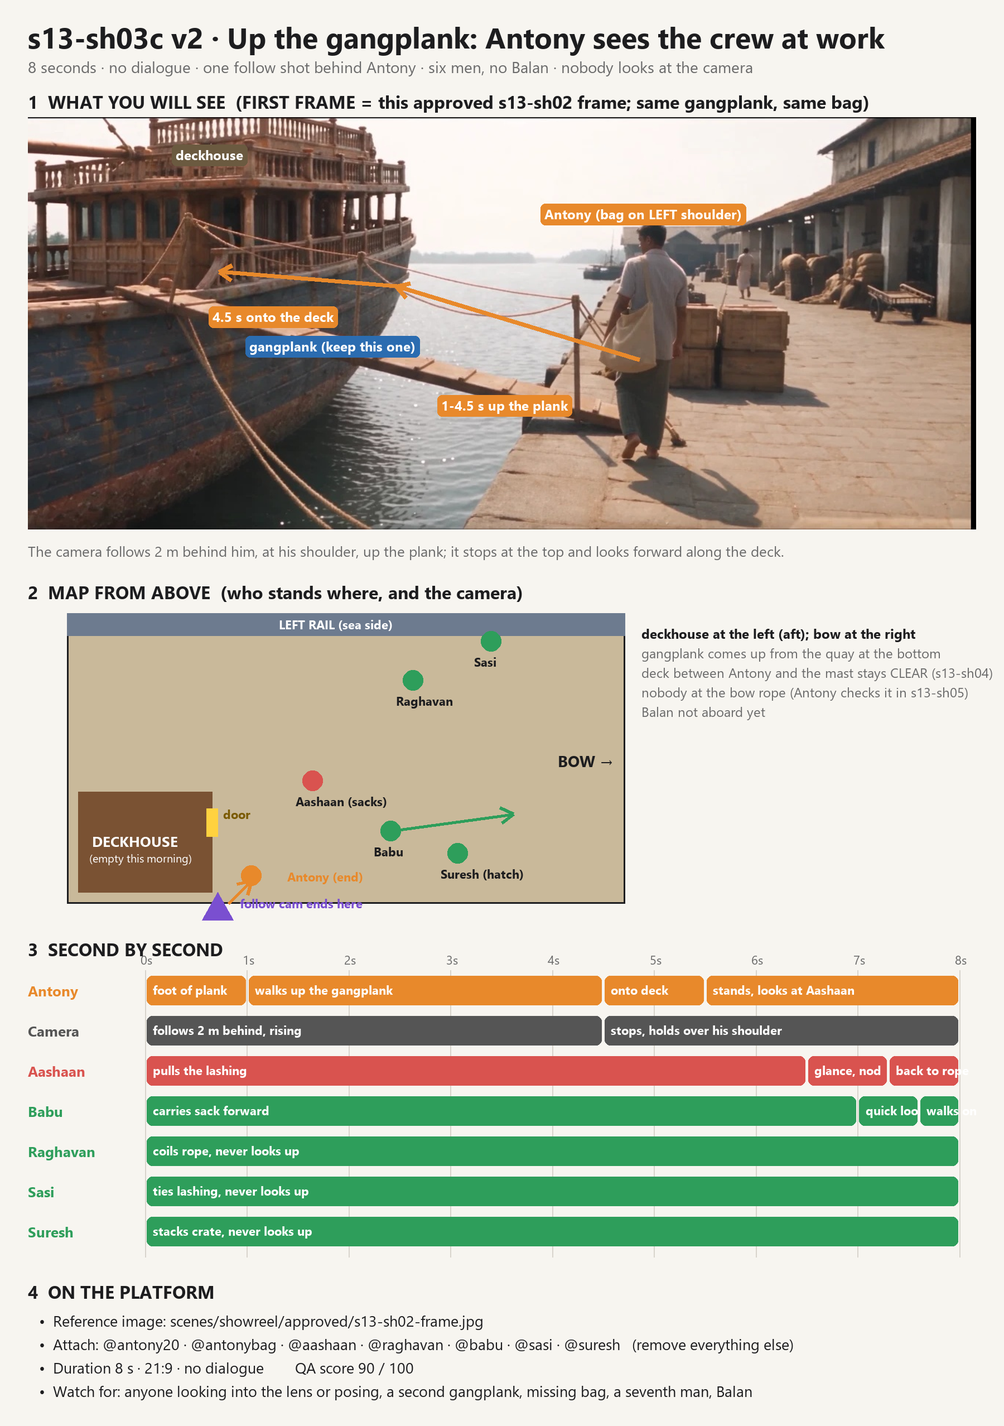
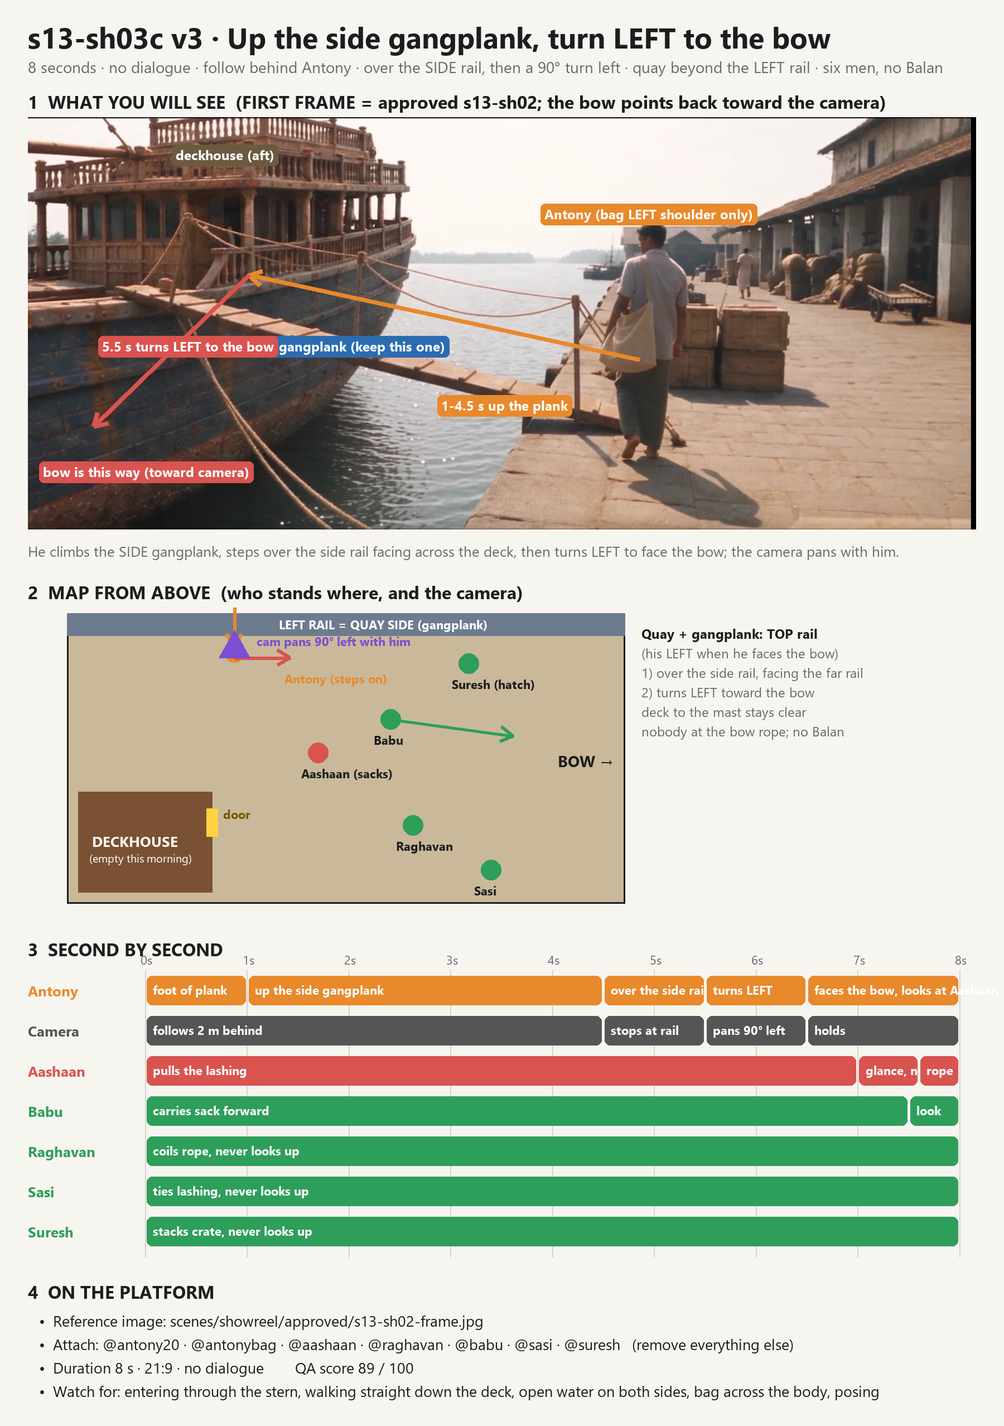
Ranjith: shot: s13-sh03c v3 (over the side rail, turn left to the bow)

diff --git a/tools/clearsheet.py b/tools/clearsheet.py
@@ -69,7 +69,7 @@ def main(path):
     M = lambda x, y: (mx + x, my + y)
     d.rectangle([mx, my, mx + mw, my + mh], fill="#c9b99a", outline=INK, width=3)
     d.rectangle([mx, my, mx + mw, my + 40], fill="#6d7b8f")
-    d.text((mx + mw / 2 - 120, my + 5), "LEFT RAIL (sea side)", font=F(22, True), fill="white")
+    d.text((mx + mw / 2 - 120, my + 5), J.get("left_rail_label", "LEFT RAIL (sea side)"), font=F(22, True), fill="white")
     d.rectangle([mx + 20, my + mh - 200, mx + 260, my + mh - 20], fill="#7a5233")
     d.text((mx + 45, my + mh - 130), "DECKHOUSE", font=F(26, True), fill="white")
     d.text((mx + 40, my + mh - 95), J.get("deckhouse_note", "(Aashaan at the wheel)"), font=F(20), fill="white")

diff --git a/scenes/showreel/s13-sh03c.md b/scenes/showreel/s13-sh03c.md
@@ -1,5 +1,5 @@
-# Shot s13-sh03c · Up the gangplank: Antony sees the crew at work (8 s, silent) — v2
-Status: **ready, proposal**. Ranjith, 2026-11-10: replaces v1 (top shot, failed: the crew posed for the camera, L127). One continuous follow shot from the foot of the gangplank in s13-sh02, up onto the deck, the crew revealed at work.
+# Shot s13-sh03c · Up the gangplank: Antony sees the crew at work (8 s, silent) — v3
+Status: **ready, proposal**. Ranjith, 2026-11-10: v3 fixes v2's direction (L128): he comes over the SIDE rail and turns left to the bow. v1 failed (posing, L127). One continuous follow shot from the foot of the gangplank in s13-sh02, up onto the deck, the crew revealed at work.
 Emotion: light-hearted (no tag, W6) · clear sheet `storyboards/s13-sh03c-clear.png`
 Created by: Ranjith, 2026-11-10
 Camera position: gangplank follow (behind Antony at his shoulder height, the same view as the end of s13-sh02), stopping at the top of the gangplank beside the deckhouse, looking forward along the deck
@@ -10,12 +10,12 @@ Follows: s13-sh02 (Antony at the foot of the gangplank). Next: s13-sh03b (Antony
 ## Prompt
 ```
 SCENE
-Mid-morning, 1998, the stone quay of the old cargo harbour at Cochin, Kerala, and the deck of Antony's big wooden cargo uru moored beside it. One continuous follow shot close behind Antony: he walks up the gangplank, steps onto the deck beside the deckhouse, and the deck opens up in front of him with the crew busy at their work, getting the uru ready to sail. Nobody speaks.
+Mid-morning, 1998, the stone quay of the old cargo harbour at Cochin, Kerala, and the deck of Antony's big wooden cargo uru moored beside it. One continuous follow shot close behind Antony: he walks up the gangplank on the side of the uru, steps over the side rail onto the deck beside the deckhouse, turns to his left toward the bow, and the deck opens up in front of him with the crew busy at their work, getting the uru ready to sail. Nobody speaks.
 
 ACTIVE REFERENCES
-Reference image (0.0s–8.0s): the s13-sh02 frame: the same quay, uru, carved deckhouse, the same gangplank of cleated planks with a rope rail up to the deck beside the deckhouse, the same light, Antony from behind.
+Reference image (0.0s–8.0s): the s13-sh02 frame: the same quay, uru, deckhouse, the same gangplank of cleated planks with a rope rail up to the side rail beside the deckhouse, the same light.
 @antony20 (0.0s–8.0s, full): Antony, 24, lean, short black hair, lavender-grey striped shirt, grey-green checked mundu, barefoot, seen from behind.
-@antonybag (0.0s–8.0s, full): his faded beige canvas bag: strap over his LEFT shoulder, bag at his LEFT hip.
+@antonybag (0.0s–8.0s, full): his faded beige canvas bag: strap over his LEFT shoulder only, not across his body, bag at his LEFT hip.
 @aashaan (5.0s–8.0s, full): Aashaan, about 60, grey moustache, cream shirt, white towel on his LEFT shoulder, white mundu.
 @raghavan (5.0s–8.0s, full): Raghavan, thin, about 60, white vest, checked towel round his neck.
 @babu (5.0s–8.0s, full): Babu, heavy-set, checked towel tied round his head, checked lungi.
@@ -23,52 +23,53 @@ Reference image (0.0s–8.0s): the s13-sh02 frame: the same quay, uru, carved de
 @suresh (5.0s–8.0s, full): Suresh, curly hair, cream shirt, green check mundu.
 
 CONTINUITY (carried over from the previous shots)
-Straight on from s13-sh02: Antony at the foot of the gangplank from behind, the uru and water at the LEFT, the quay at the RIGHT, bag on his LEFT shoulder, barefoot, hazy warm sun. Balan has not arrived yet.
+Straight on from s13-sh02: Antony at the foot of the gangplank from behind, uru at the LEFT, quay at the RIGHT, barefoot. Balan not aboard yet.
 
 THE DECK (5.0s–8.0s)
-From the top of the gangplank beside the deckhouse, looking forward along the main deck toward the bow: the thick wooden mast about four metres ahead, a stack of burlap sacks lashed with coir rope beside it, coils of rope on the planks, the blue-grey rails on both sides, The strip of deck between Antony and the mast is clear. Everyone is at the mast or forward of it, each at a different distance, never in a row: Aashaan at the sacks beside the mast, pulling the lashing tight; Raghavan sitting forward at the left, coiling rope; Sasi kneeling at the far rail, tying a lashing; Babu carrying a sack forward, away from the camera; Suresh at the forward hatch at the right, stacking a crate. No lettering.
+After his turn, from beside the deckhouse looking forward along the main deck toward the bow: the near rail he came over and the stone quay beyond it at the LEFT, the gangplank's top at that rail; the far rail and the hazy water at the RIGHT; the thick wooden mast about four metres ahead, a stack of burlap sacks lashed with coir rope beside it, coils of rope on the planks, the blue-grey rails on both sides, The strip of deck between Antony and the mast is clear. Everyone is at the mast or forward of it, each at a different distance, never in a row: Aashaan at the sacks beside the mast, pulling the lashing tight; Raghavan sitting forward at the right, coiling rope; Sasi kneeling by the far rail at the right, tying a lashing; Babu carrying a sack forward, away from the camera; Suresh at the forward hatch at the left, stacking a crate. No lettering.
 
 FIRST FRAME
-Exactly the reference: Antony from behind at the foot of the gangplank.
+Exactly the reference.
 
 FORMAT MODE
 One continuous shot; the camera does not cut on its own. The video runs the full 8 seconds.
 
 OPTICS
-MS 47° from behind Antony at shoulder height, natural depth of field; when the deck opens up, deep focus so the five men read clearly.
+MS 47° from behind Antony at shoulder height, natural depth of field; deep focus once the deck opens up.
 
 CAMERA
-A smooth follow close behind Antony, two metres back, at his shoulder height: it follows him up the gangplank at his walking pace, rising with him, stops at the top of the gangplank as he steps onto the deck, then holds still over his right shoulder, looking forward along the deck. Level horizon, no shake.
+A smooth follow close behind Antony, two metres back, at his shoulder height, the plank and rope rail ahead, the uru's side at the left: it follows him up the gangplank at his walking pace, stops at the side rail as he steps over it, then turns LEFT with him, a slow pan of about 90 degrees, and holds still over his right shoulder looking forward along the deck. Level, no shake.
 
 ACTION
 0.0s to 1.0s: Antony stands at the foot of the gangplank, a hand on the rope rail, the bag at his left hip.
 1.0s to 4.5s: He walks up the gangplank with easy, practised steps, barefoot on the wooden cleats; the deckhouse grows larger at the left.
-4.5s to 5.5s: He steps over the low rail onto the deck beside the deckhouse and stops, settling the bag strap on his left shoulder.
-5.5s to 8.0s: The deck opens up in front of him, every man busy at his own work and his own pace. At 6.5s Aashaan, pulling the lashing tight, glances up at Antony's face for a moment and gives a small nod, then goes back to the rope. At 7.0s Babu, passing with the sack, throws Antony a quick look and walks on. Raghavan, Sasi and Suresh do not look up. Antony stands looking forward at Aashaan, his back to the camera.
+4.5s to 5.5s: He steps over the low side rail onto the deck beside the deckhouse, facing across the deck toward the far rail and the water, the deckhouse at his right; he settles the bag strap on his left shoulder.
+5.5s to 6.5s: He turns to his LEFT toward the bow; the camera turns with him.
+6.5s to 8.0s: The deck opens up in front of him, every man busy at his own work and his own pace. At 7.0s Aashaan, pulling the lashing tight, glances up at Antony's face for a moment and gives a small nod, then goes back to the rope. At 7.5s Babu, passing with the sack, throws Antony a quick look and walks on. Raghavan, Sasi and Suresh do not look up. Antony stands looking forward at Aashaan, his back to the camera.
 
 EXPRESSIONS (every face, beat by beat)
-Antony: seen from behind; shoulders loose and easy, his head lifting as the deck opens up, at home.
-Aashaan: busy, brows drawn over the knot; at 6.5s a brief look up, a faint pleased softening of the eyes under the grey moustache; then back to work.
-Babu: puffing a little under the sack, a quick friendly flick of the eyes at Antony, mouth closed, then eyes ahead.
-Raghavan: absorbed in the rope, lips pressed, an old man's patient frown.
-Sasi: concentrating on the knot, jaw set, face half hidden by his curly hair.
-Suresh: busy and a little hurried, eyes on the crate.
+Antony: seen from behind; shoulders loose and easy; as he turns, his profile shows a small, content smile; then his head lifts as the deck opens up, at home.
+Aashaan: busy, brows drawn over the knot; at 7.0s a brief look up, a faint pleased softening of the eyes under the grey moustache; then back to work.
+Babu: puffing under the sack, a quick friendly flick of the eyes at Antony, mouth closed.
+Raghavan: absorbed, an old man's patient frown.
+Sasi: jaw set over the knot, face half hidden by his hair.
+Suresh: a little hurried, eyes on the crate.
 
 PERFORMANCE
-An ordinary working morning before sailing, weight in every sack and rope. A welcome without fuss: nobody stops working, nobody gathers, nobody poses.
+An ordinary working morning, weight in every sack and rope; nobody stops working, nobody poses.
 
 LIGHTING
 Exactly the reference's hazy warm morning sun; soft shadows on the planks.
 
 AUDIO
 Sound effects only — natural on-location sound, the soundtrack carries no music. No music at all: no score, no background music, no song, no humming, and no cinematic sound design: no riser, no whoosh, no swell, no rumble, no transition sound. Ambient at a steady level that does not build. No spoken words and no voices.
-0.0s–8.0s: harbour ambience, gulls, water slapping between the hull and the quay; 1.0s–4.5s bare feet on the wooden cleats and the plank creaking; 4.5s a soft thump onto the deck; 5.5s–8.0s rope creaking, a sack thudding down, a crate set on wood.
+Harbour ambience, gulls, water against the hull; 1.0s–4.5s bare feet on the plank, the plank creaking; 4.5s a soft thump onto the deck; then rope creaking, a sack thudding down.
 
 STYLE
 Photoreal 1998 Kerala film. Shot on a Sony Venice 2 full-frame digital cinema camera: very wide dynamic range; clean, low-noise shadows; soft, gradual highlight roll-off; accurate, natural colour with rich, true skin tones; gentle filmic contrast; fine, organic texture; no over-sharpening, no glossy or video look. Warm hazy morning palette.
 
 POSITIVE LOCKS
-One gangplank, exactly as in the reference. Antony seen from behind the whole shot, the bag strap on his LEFT shoulder, the bag at his left hip, barefoot. Exactly six men in the shot, one of each: Antony, Aashaan, Raghavan, Babu, Sasi, Suresh; no Balan, no copies, no extra people. Everyone keeps working; nobody looks at the camera, nobody poses, nobody waves. The deck between Antony and the mast stays clear. Nobody speaks. Runs the full 8 seconds.
+One gangplank, exactly as in the reference, on the SIDE of the uru; he comes over the side rail, never through the stern. Moored at the quay: the quay beyond the LEFT rail when looking toward the bow; never open water on both sides. Antony from behind the whole shot, the bag strap on his LEFT shoulder only, the bag at his left hip, barefoot. Exactly six men in the shot, one of each: Antony, Aashaan, Raghavan, Babu, Sasi, Suresh; no Balan, no copies, no extra people. Everyone keeps working; nobody looks at the camera, nobody poses, nobody waves. The deck between Antony and the mast stays clear. Nobody speaks. Runs the full 8 seconds.
 
 Let it feel easy and warm: a young sailor coming aboard to a busy deck where he belongs
 ```
@@ -76,22 +77,25 @@ Let it feel easy and warm: a young sailor coming aboard to a busy deck where he 
 ## Settings
 - Duration 8 s · 21:9 · no dialogue · no tag (W6), intent line (W13). Remove all other attachments first (L88).
 - Attach: reference image `scenes/showreel/approved/s13-sh02-frame.jpg` · @antony20 · @antonybag · @aashaan · @raghavan · @babu · @sasi · @suresh.
-- QA: 90/100 (risks: seven references plus the image; the crew read small, so check faces and head count).
+- QA: 89/100 (risks: seven references plus the image; the 90-degree turn; check the quay at the left and the head count).
 
 ## Generation results
+- v2 [partial] (2026-11-10, Ranjith) the crew worked naturally and nobody posed (L127 held), but the gangplank became a ladder into the stern and Antony walked straight down the deck toward the bow, open water on both sides, no quay; bag across his body at the right hip. Lesson L128. Frames: `evidence/s13-sh03c-v2-contact-sheet.jpg`, `evidence/s13-sh03c-v2-last-entered-from-stern.jpg`. v2: `retired/s13-sh03c-v2.md`.
 - v1 [failed] (2026-11-10, Ranjith) top shot from the rigging: every man looked up into the lens and smiled, like a group photo; Antony without his bag; a different gangplank. Lesson L127. Frame: `evidence/s13-sh03c-v1-crew-pose-to-camera.jpg`. v1: `retired/s13-sh03c-v1.md`.
 
 ## History
 - v1 (2026-11-10): Ranjith: a top shot showing Aashaan and everyone on deck at work as Antony arrives; no Balan.
+- v3 (2026-11-10): Ranjith: he came from the side: over the side rail, then a turn to his left to the bow; the quay beyond the left rail; crew sides mirrored to match (L128).
 - v2 (2026-11-10): Ranjith: keep the s13-sh02 gangplank; one continuous follow behind Antony up the gangplank, and he sees everyone at work on deck. Crew at the mast or forward of it so s13-sh04's empty background holds; nobody at the bow rope Antony checks in s13-sh05 (L127, L113, L123).
 
 ## Continuity check
 | Element | Previous (s13-sh02, approved frame) | This shot | Next (s13-sh03b, s13-sh04, s13-sh05) |
 |---|---|---|---|
 | Gangplank | wooden cleated plank with rope rail, up to the rail by the deckhouse | the same, from the reference | — |
-| Antony | from behind, bag on LEFT shoulder, barefoot | same; steps onto the deck by the deckhouse | on deck by the deckhouse, calls Aashaan |
+| Antony | from behind, bag on LEFT shoulder, barefoot | same; over the SIDE rail by the deckhouse, turns left to the bow | on deck by the deckhouse, calls Aashaan |
 | Aashaan | — | at the sacks beside the mast, about 4 m ahead | same spot (s13-sh04 frame) |
 | Crew | not seen | at the mast or forward of it, working | out of the s13-sh04 view (behind its camera) |
 | Deck between Antony and the mast | — | clear | empty behind Aashaan in s13-sh04 |
 | Bow rope | — | nobody at it | Antony checks it alone (s13-sh05) |
+| Quay | on his right as he walks (s13-sh02); bow points back toward s13-sh01's view | beyond the LEFT rail facing the bow | beyond the RIGHT rail looking aft (c1, s13-sh03b) |
 | Balan | not aboard | not in frame | boards in s13-sh05b |

diff --git a/scenes/showreel/retired/s13-sh03c-v2.md b/scenes/showreel/retired/s13-sh03c-v2.md
@@ -1,0 +1,97 @@
+# Shot s13-sh03c · Up the gangplank: Antony sees the crew at work (8 s, silent) — v2
+Status: **ready, proposal**. Ranjith, 2026-11-10: replaces v1 (top shot, failed: the crew posed for the camera, L127). One continuous follow shot from the foot of the gangplank in s13-sh02, up onto the deck, the crew revealed at work.
+Emotion: light-hearted (no tag, W6) · clear sheet `storyboards/s13-sh03c-clear.png`
+Created by: Ranjith, 2026-11-10
+Camera position: gangplank follow (behind Antony at his shoulder height, the same view as the end of s13-sh02), stopping at the top of the gangplank beside the deckhouse, looking forward along the deck
+References: reference image = approved/s13-sh02-frame.jpg · @antony20 · @antonybag · @aashaan · @raghavan · @babu · @sasi · @suresh (all full)
+Reference sweep (left out, and why): @balan: arrives later (s13-sh05b). @crew: never with the named crewmen (L74). @urudeckc1plate: looks aft at the deckhouse, this shot looks forward (L61). @harbourc3plate and @uru: the reference frame already carries the quay, hull and gangplank (L51).
+Follows: s13-sh02 (Antony at the foot of the gangplank). Next: s13-sh03b (Antony: ആശാനേ, ഞാൻ എത്തിട്ടോ!). In the cut this takes the place of s13-sh03 (the boarding seen from the quay), which stays approved as an alternative.
+
+## Prompt
+```
+SCENE
+Mid-morning, 1998, the stone quay of the old cargo harbour at Cochin, Kerala, and the deck of Antony's big wooden cargo uru moored beside it. One continuous follow shot close behind Antony: he walks up the gangplank, steps onto the deck beside the deckhouse, and the deck opens up in front of him with the crew busy at their work, getting the uru ready to sail. Nobody speaks.
+
+ACTIVE REFERENCES
+Reference image (0.0s–8.0s): the s13-sh02 frame: the same quay, uru, carved deckhouse, the same gangplank of cleated planks with a rope rail up to the deck beside the deckhouse, the same light, Antony from behind.
+@antony20 (0.0s–8.0s, full): Antony, 24, lean, short black hair, lavender-grey striped shirt, grey-green checked mundu, barefoot, seen from behind.
+@antonybag (0.0s–8.0s, full): his faded beige canvas bag: strap over his LEFT shoulder, bag at his LEFT hip.
+@aashaan (5.0s–8.0s, full): Aashaan, about 60, grey moustache, cream shirt, white towel on his LEFT shoulder, white mundu.
+@raghavan (5.0s–8.0s, full): Raghavan, thin, about 60, white vest, checked towel round his neck.
+@babu (5.0s–8.0s, full): Babu, heavy-set, checked towel tied round his head, checked lungi.
+@sasi (5.0s–8.0s, full): Sasi, long curly hair, full beard, off-white shirt.
+@suresh (5.0s–8.0s, full): Suresh, curly hair, cream shirt, green check mundu.
+
+CONTINUITY (carried over from the previous shots)
+Straight on from s13-sh02: Antony at the foot of the gangplank from behind, the uru and water at the LEFT, the quay at the RIGHT, bag on his LEFT shoulder, barefoot, hazy warm sun. Balan has not arrived yet.
+
+THE DECK (5.0s–8.0s)
+From the top of the gangplank beside the deckhouse, looking forward along the main deck toward the bow: the thick wooden mast about four metres ahead, a stack of burlap sacks lashed with coir rope beside it, coils of rope on the planks, the blue-grey rails on both sides, The strip of deck between Antony and the mast is clear. Everyone is at the mast or forward of it, each at a different distance, never in a row: Aashaan at the sacks beside the mast, pulling the lashing tight; Raghavan sitting forward at the left, coiling rope; Sasi kneeling at the far rail, tying a lashing; Babu carrying a sack forward, away from the camera; Suresh at the forward hatch at the right, stacking a crate. No lettering.
+
+FIRST FRAME
+Exactly the reference: Antony from behind at the foot of the gangplank.
+
+FORMAT MODE
+One continuous shot; the camera does not cut on its own. The video runs the full 8 seconds.
+
+OPTICS
+MS 47° from behind Antony at shoulder height, natural depth of field; when the deck opens up, deep focus so the five men read clearly.
+
+CAMERA
+A smooth follow close behind Antony, two metres back, at his shoulder height: it follows him up the gangplank at his walking pace, rising with him, stops at the top of the gangplank as he steps onto the deck, then holds still over his right shoulder, looking forward along the deck. Level horizon, no shake.
+
+ACTION
+0.0s to 1.0s: Antony stands at the foot of the gangplank, a hand on the rope rail, the bag at his left hip.
+1.0s to 4.5s: He walks up the gangplank with easy, practised steps, barefoot on the wooden cleats; the deckhouse grows larger at the left.
+4.5s to 5.5s: He steps over the low rail onto the deck beside the deckhouse and stops, settling the bag strap on his left shoulder.
+5.5s to 8.0s: The deck opens up in front of him, every man busy at his own work and his own pace. At 6.5s Aashaan, pulling the lashing tight, glances up at Antony's face for a moment and gives a small nod, then goes back to the rope. At 7.0s Babu, passing with the sack, throws Antony a quick look and walks on. Raghavan, Sasi and Suresh do not look up. Antony stands looking forward at Aashaan, his back to the camera.
+
+EXPRESSIONS (every face, beat by beat)
+Antony: seen from behind; shoulders loose and easy, his head lifting as the deck opens up, at home.
+Aashaan: busy, brows drawn over the knot; at 6.5s a brief look up, a faint pleased softening of the eyes under the grey moustache; then back to work.
+Babu: puffing a little under the sack, a quick friendly flick of the eyes at Antony, mouth closed, then eyes ahead.
+Raghavan: absorbed in the rope, lips pressed, an old man's patient frown.
+Sasi: concentrating on the knot, jaw set, face half hidden by his curly hair.
+Suresh: busy and a little hurried, eyes on the crate.
+
+PERFORMANCE
+An ordinary working morning before sailing, weight in every sack and rope. A welcome without fuss: nobody stops working, nobody gathers, nobody poses.
+
+LIGHTING
+Exactly the reference's hazy warm morning sun; soft shadows on the planks.
+
+AUDIO
+Sound effects only — natural on-location sound, the soundtrack carries no music. No music at all: no score, no background music, no song, no humming, and no cinematic sound design: no riser, no whoosh, no swell, no rumble, no transition sound. Ambient at a steady level that does not build. No spoken words and no voices.
+0.0s–8.0s: harbour ambience, gulls, water slapping between the hull and the quay; 1.0s–4.5s bare feet on the wooden cleats and the plank creaking; 4.5s a soft thump onto the deck; 5.5s–8.0s rope creaking, a sack thudding down, a crate set on wood.
+
+STYLE
+Photoreal 1998 Kerala film. Shot on a Sony Venice 2 full-frame digital cinema camera: very wide dynamic range; clean, low-noise shadows; soft, gradual highlight roll-off; accurate, natural colour with rich, true skin tones; gentle filmic contrast; fine, organic texture; no over-sharpening, no glossy or video look. Warm hazy morning palette.
+
+POSITIVE LOCKS
+One gangplank, exactly as in the reference. Antony seen from behind the whole shot, the bag strap on his LEFT shoulder, the bag at his left hip, barefoot. Exactly six men in the shot, one of each: Antony, Aashaan, Raghavan, Babu, Sasi, Suresh; no Balan, no copies, no extra people. Everyone keeps working; nobody looks at the camera, nobody poses, nobody waves. The deck between Antony and the mast stays clear. Nobody speaks. Runs the full 8 seconds.
+
+Let it feel easy and warm: a young sailor coming aboard to a busy deck where he belongs
+```
+
+## Settings
+- Duration 8 s · 21:9 · no dialogue · no tag (W6), intent line (W13). Remove all other attachments first (L88).
+- Attach: reference image `scenes/showreel/approved/s13-sh02-frame.jpg` · @antony20 · @antonybag · @aashaan · @raghavan · @babu · @sasi · @suresh.
+- QA: 90/100 (risks: seven references plus the image; the crew read small, so check faces and head count).
+
+## Generation results
+- v1 [failed] (2026-11-10, Ranjith) top shot from the rigging: every man looked up into the lens and smiled, like a group photo; Antony without his bag; a different gangplank. Lesson L127. Frame: `evidence/s13-sh03c-v1-crew-pose-to-camera.jpg`. v1: `retired/s13-sh03c-v1.md`.
+
+## History
+- v1 (2026-11-10): Ranjith: a top shot showing Aashaan and everyone on deck at work as Antony arrives; no Balan.
+- v2 (2026-11-10): Ranjith: keep the s13-sh02 gangplank; one continuous follow behind Antony up the gangplank, and he sees everyone at work on deck. Crew at the mast or forward of it so s13-sh04's empty background holds; nobody at the bow rope Antony checks in s13-sh05 (L127, L113, L123).
+
+## Continuity check
+| Element | Previous (s13-sh02, approved frame) | This shot | Next (s13-sh03b, s13-sh04, s13-sh05) |
+|---|---|---|---|
+| Gangplank | wooden cleated plank with rope rail, up to the rail by the deckhouse | the same, from the reference | — |
+| Antony | from behind, bag on LEFT shoulder, barefoot | same; steps onto the deck by the deckhouse | on deck by the deckhouse, calls Aashaan |
+| Aashaan | — | at the sacks beside the mast, about 4 m ahead | same spot (s13-sh04 frame) |
+| Crew | not seen | at the mast or forward of it, working | out of the s13-sh04 view (behind its camera) |
+| Deck between Antony and the mast | — | clear | empty behind Aashaan in s13-sh04 |
+| Bow rope | — | nobody at it | Antony checks it alone (s13-sh05) |
+| Balan | not aboard | not in frame | boards in s13-sh05b |
